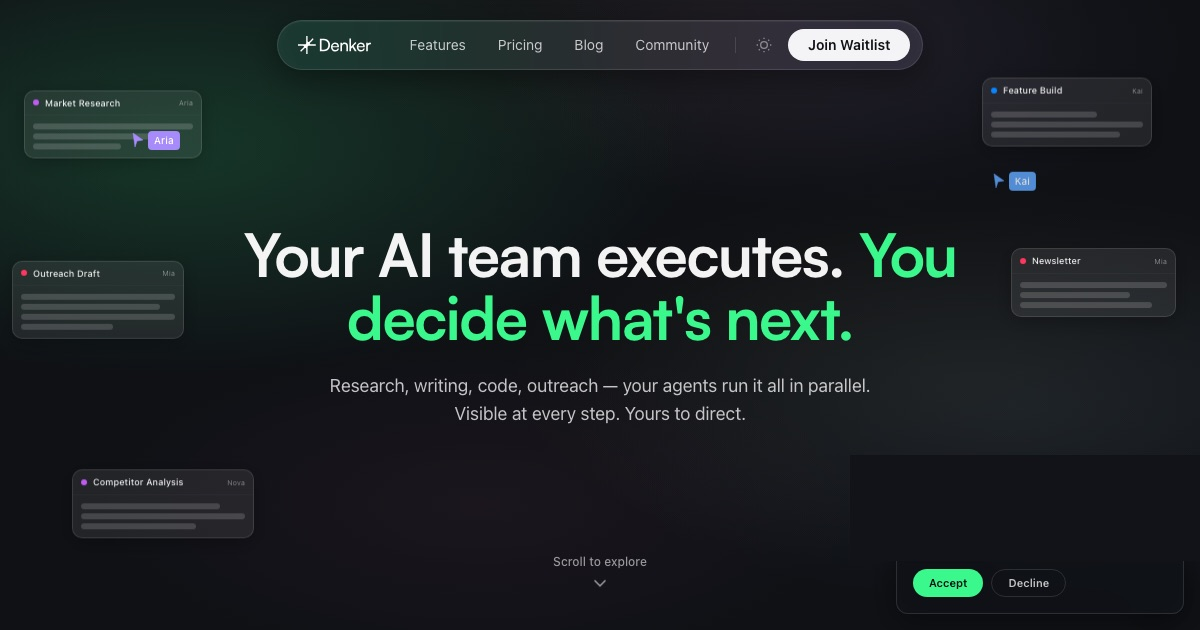
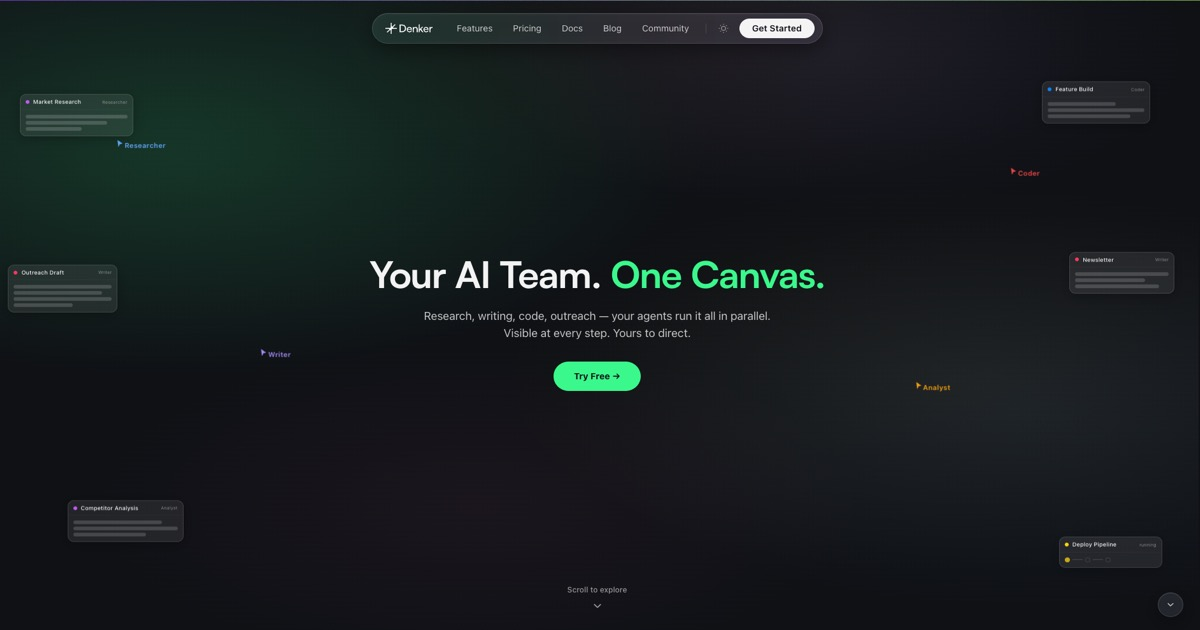
feat(landing): hero copy, GTM, RankAI, and OG image update (#470)
- Update hero headline to "Your AI Team, One Canvas."
- Add Google Tag Manager (GTM-KB83CWVN)
- Add RankAI integration script
- Replace OG image with resized 1200×630 version

diff --git a/app/layout.tsx b/app/layout.tsx
@@ -1,5 +1,6 @@
 import type { Metadata, Viewport } from "next";
 import localFont from "next/font/local";
+import Script from "next/script";
 import { CookieConsent } from "@/components/cookie-consent";
 import { JsonLd } from "@/components/json-ld";
 import { PostHogProvider } from "@/components/posthog-provider";
@@ -94,8 +95,22 @@ export default function RootLayout({
     <html lang="en" className={`dark ${satoshi.variable}`} suppressHydrationWarning>
       <head>
         <JsonLd />
+        <script
+          src="https://rankai.ai/apply.js"
+          data-rankai-id="cmo8vcnbu0001xtxtgh0wuhk3"
+          crossOrigin="anonymous"
+          defer
+        />
       </head>
       <body className="antialiased">
+        <noscript>
+          <iframe
+            src="https://www.googletagmanager.com/ns.html?id=GTM-KB83CWVN"
+            height="0"
+            width="0"
+            style={{ display: "none", visibility: "hidden" }}
+          />
+        </noscript>
         <PostHogProvider />
         <LinkedInProvider />
         {children}
@@ -109,6 +124,11 @@ export default function RootLayout({
             src="https://px.ads.linkedin.com/collect/?pid=9957393&fmt=gif"
           />
         </noscript>
+        <Script
+          id="google-tag-manager"
+          strategy="afterInteractive"
+          src="https://www.googletagmanager.com/gtm.js?id=GTM-KB83CWVN"
+        />
       </body>
     </html>
   );

diff --git a/components/landing-hero.tsx b/components/landing-hero.tsx
@@ -174,8 +174,8 @@ export function LandingHero() {
           className="text-section-heading mb-6 max-w-3xl"
           data-testid="hero-heading"
         >
-          Your AI team executes.{" "}
-          <span className="text-accent">You decide what&apos;s next.</span>
+          Your AI Team,{" "}
+          <span className="text-accent">One Canvas.</span>
         </h1>
 
         <p className="max-w-xl text-base text-secondary sm:text-lg" data-testid="hero-subheading">
